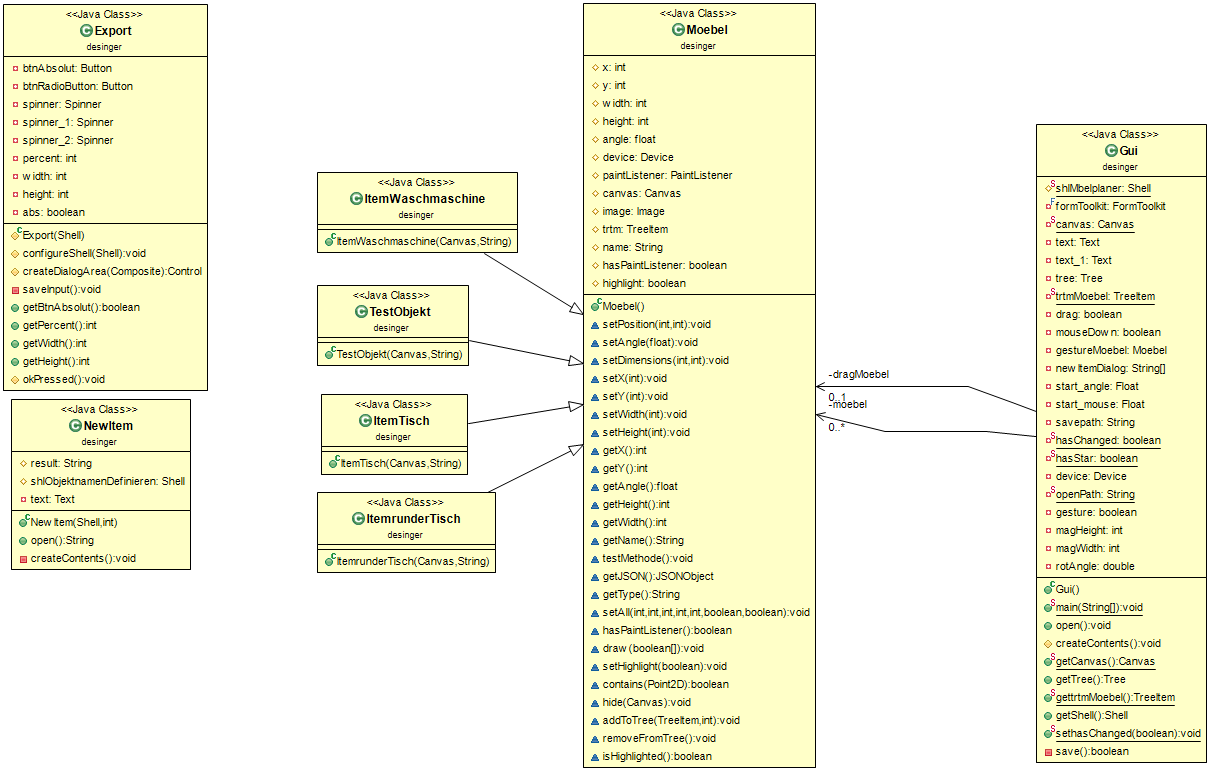
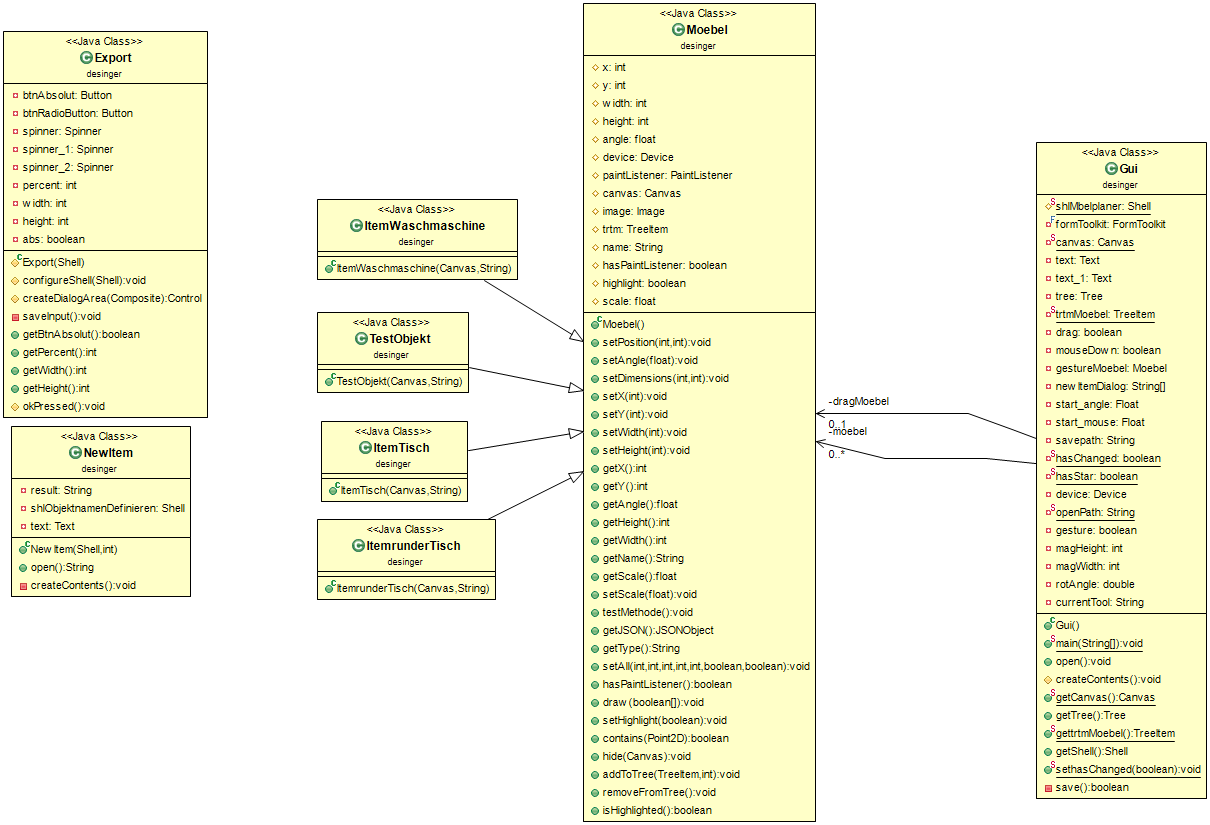
vieles

diff --git a/Desinger/src/desinger/ItemSchreibtisch.java b/Desinger/src/desinger/ItemSchreibtisch.java
@@ -1,0 +1,22 @@
+package desinger;
+
+import org.eclipse.swt.SWT;
+import org.eclipse.swt.widgets.Canvas;
+import org.eclipse.wb.swt.SWTResourceManager;
+
+public class ItemSchreibtisch extends Moebel {
+
+	public ItemSchreibtisch(Canvas c,String objName) {
+		Gui.sethasChanged(true);
+		name = objName; 
+		canvas = c;
+		x = 50;
+		y = 50;
+		width = 180;
+		height = 90;
+		image = SWTResourceManager.getImage(Gui.class, "/moebel/Schreibtisch.png");
+		draw();
+		addToTree(Gui.gettrtmMoebel(),SWT.NONE);
+	}
+
+}
